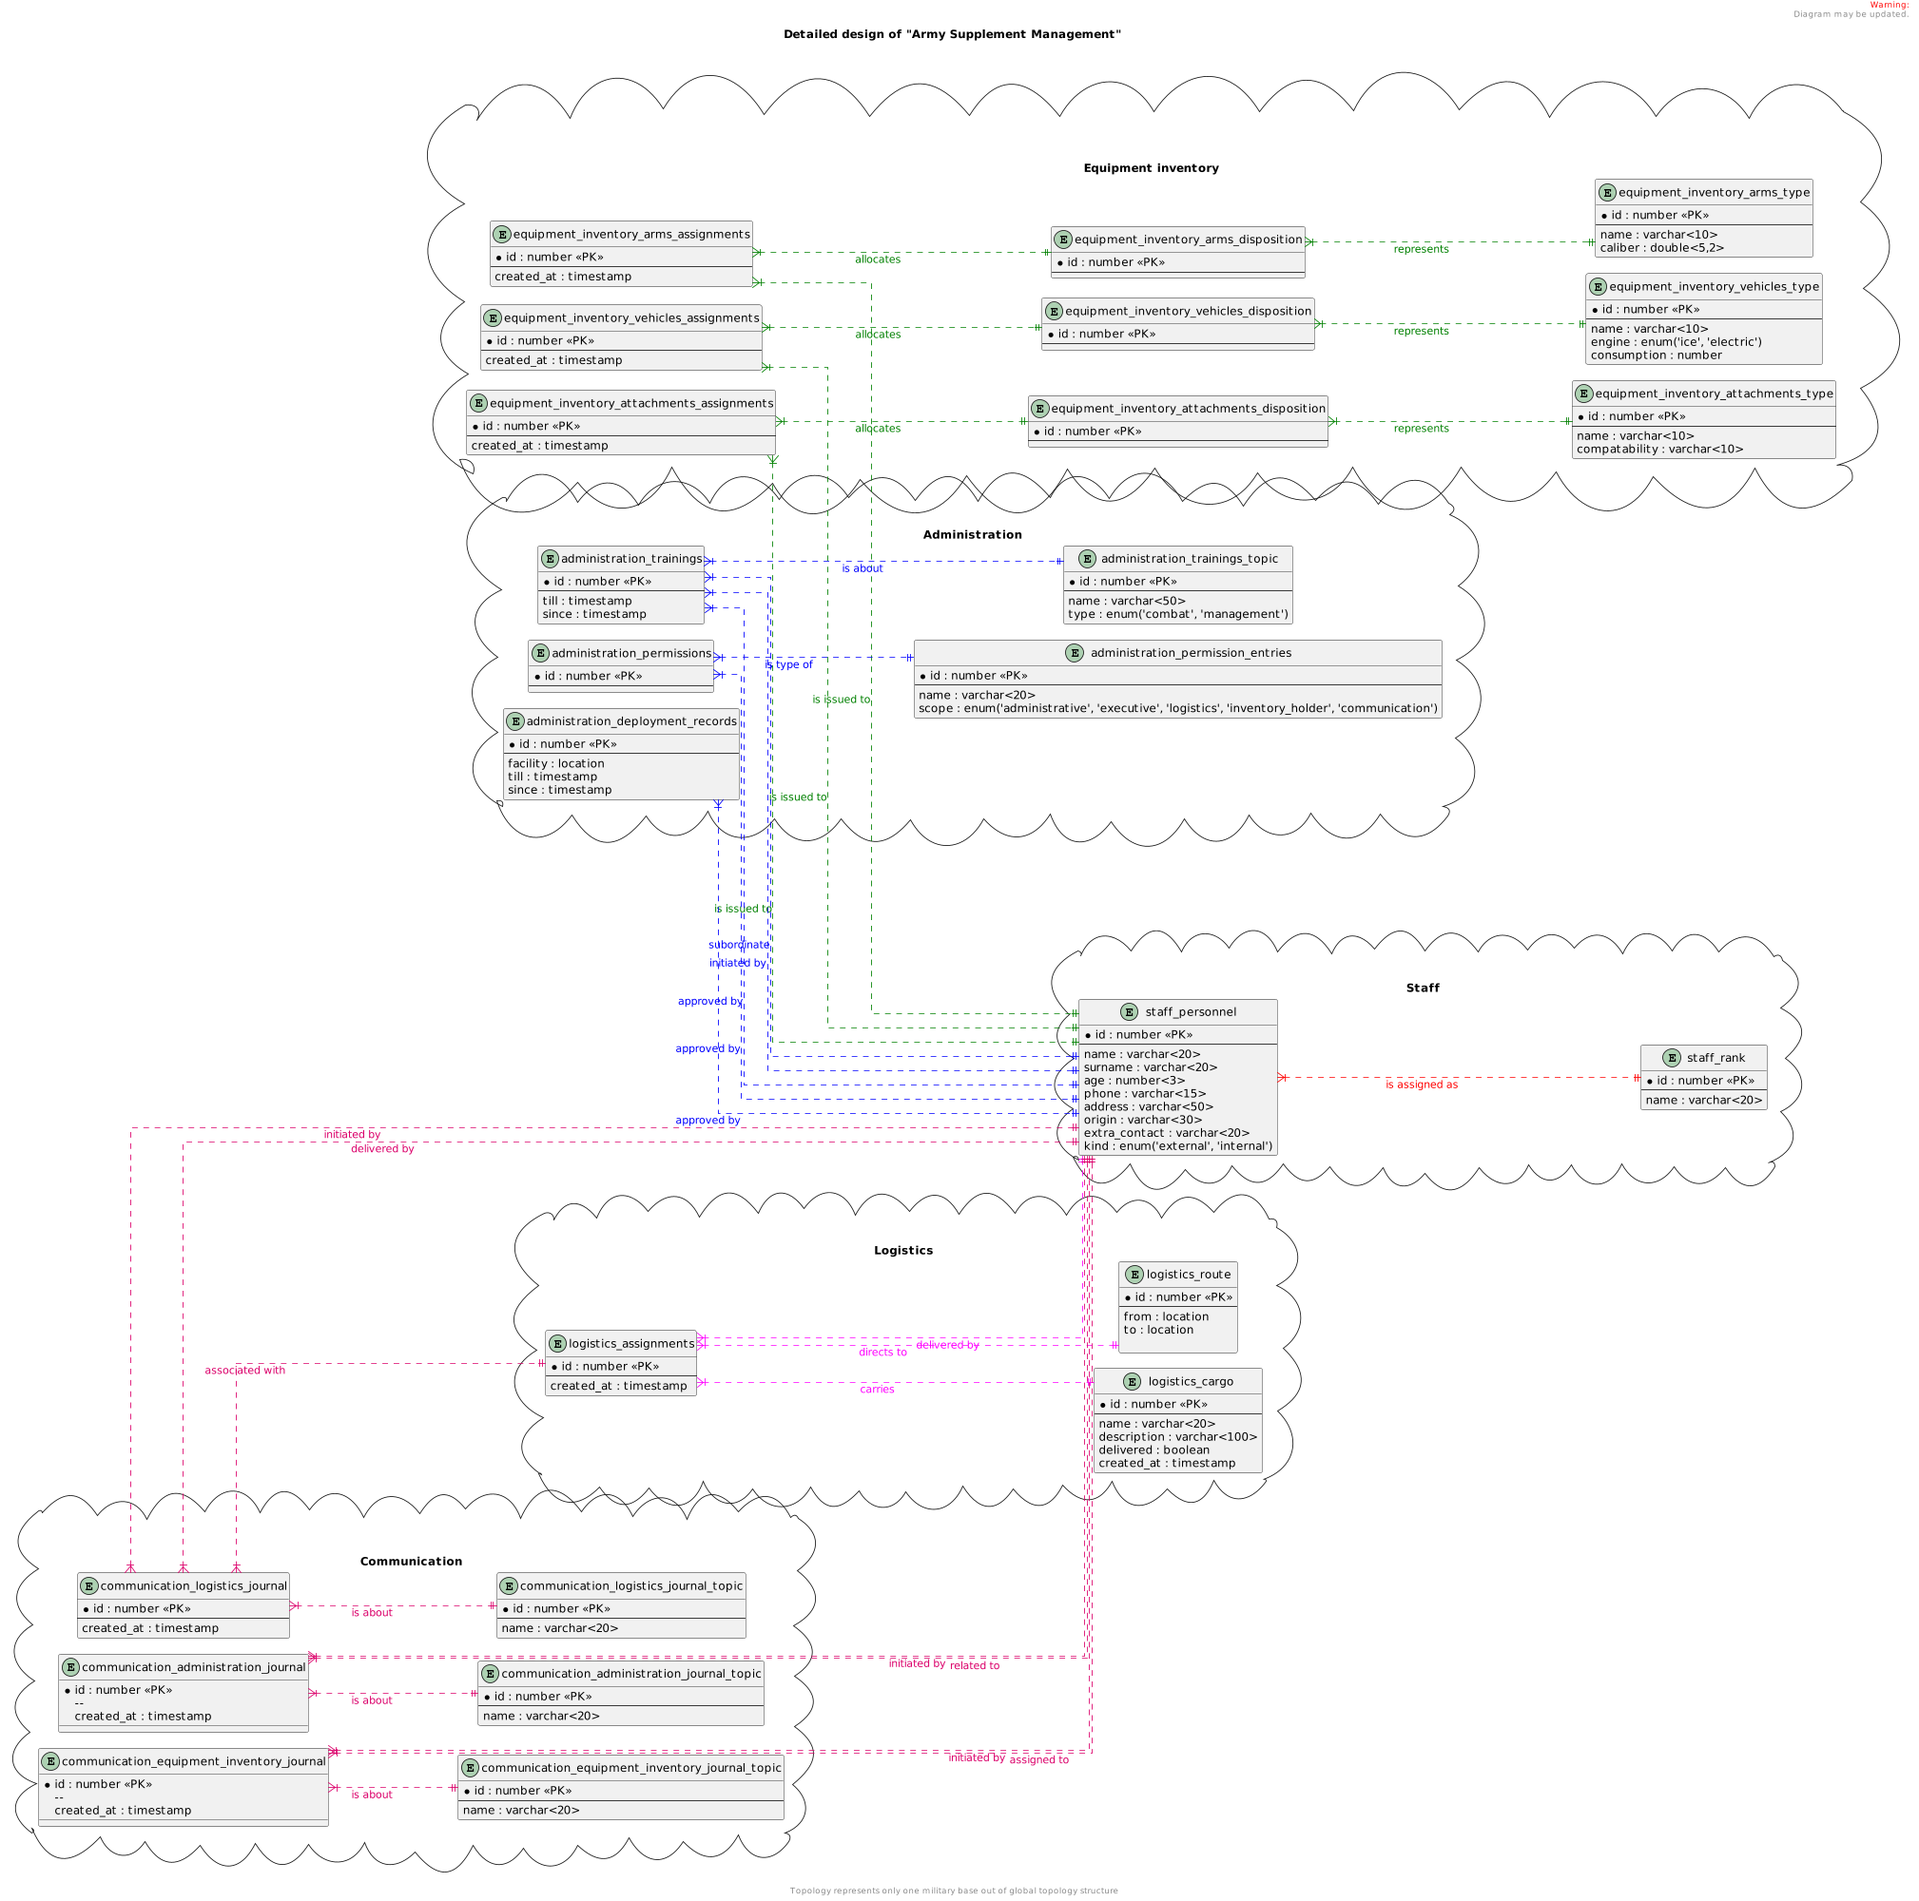
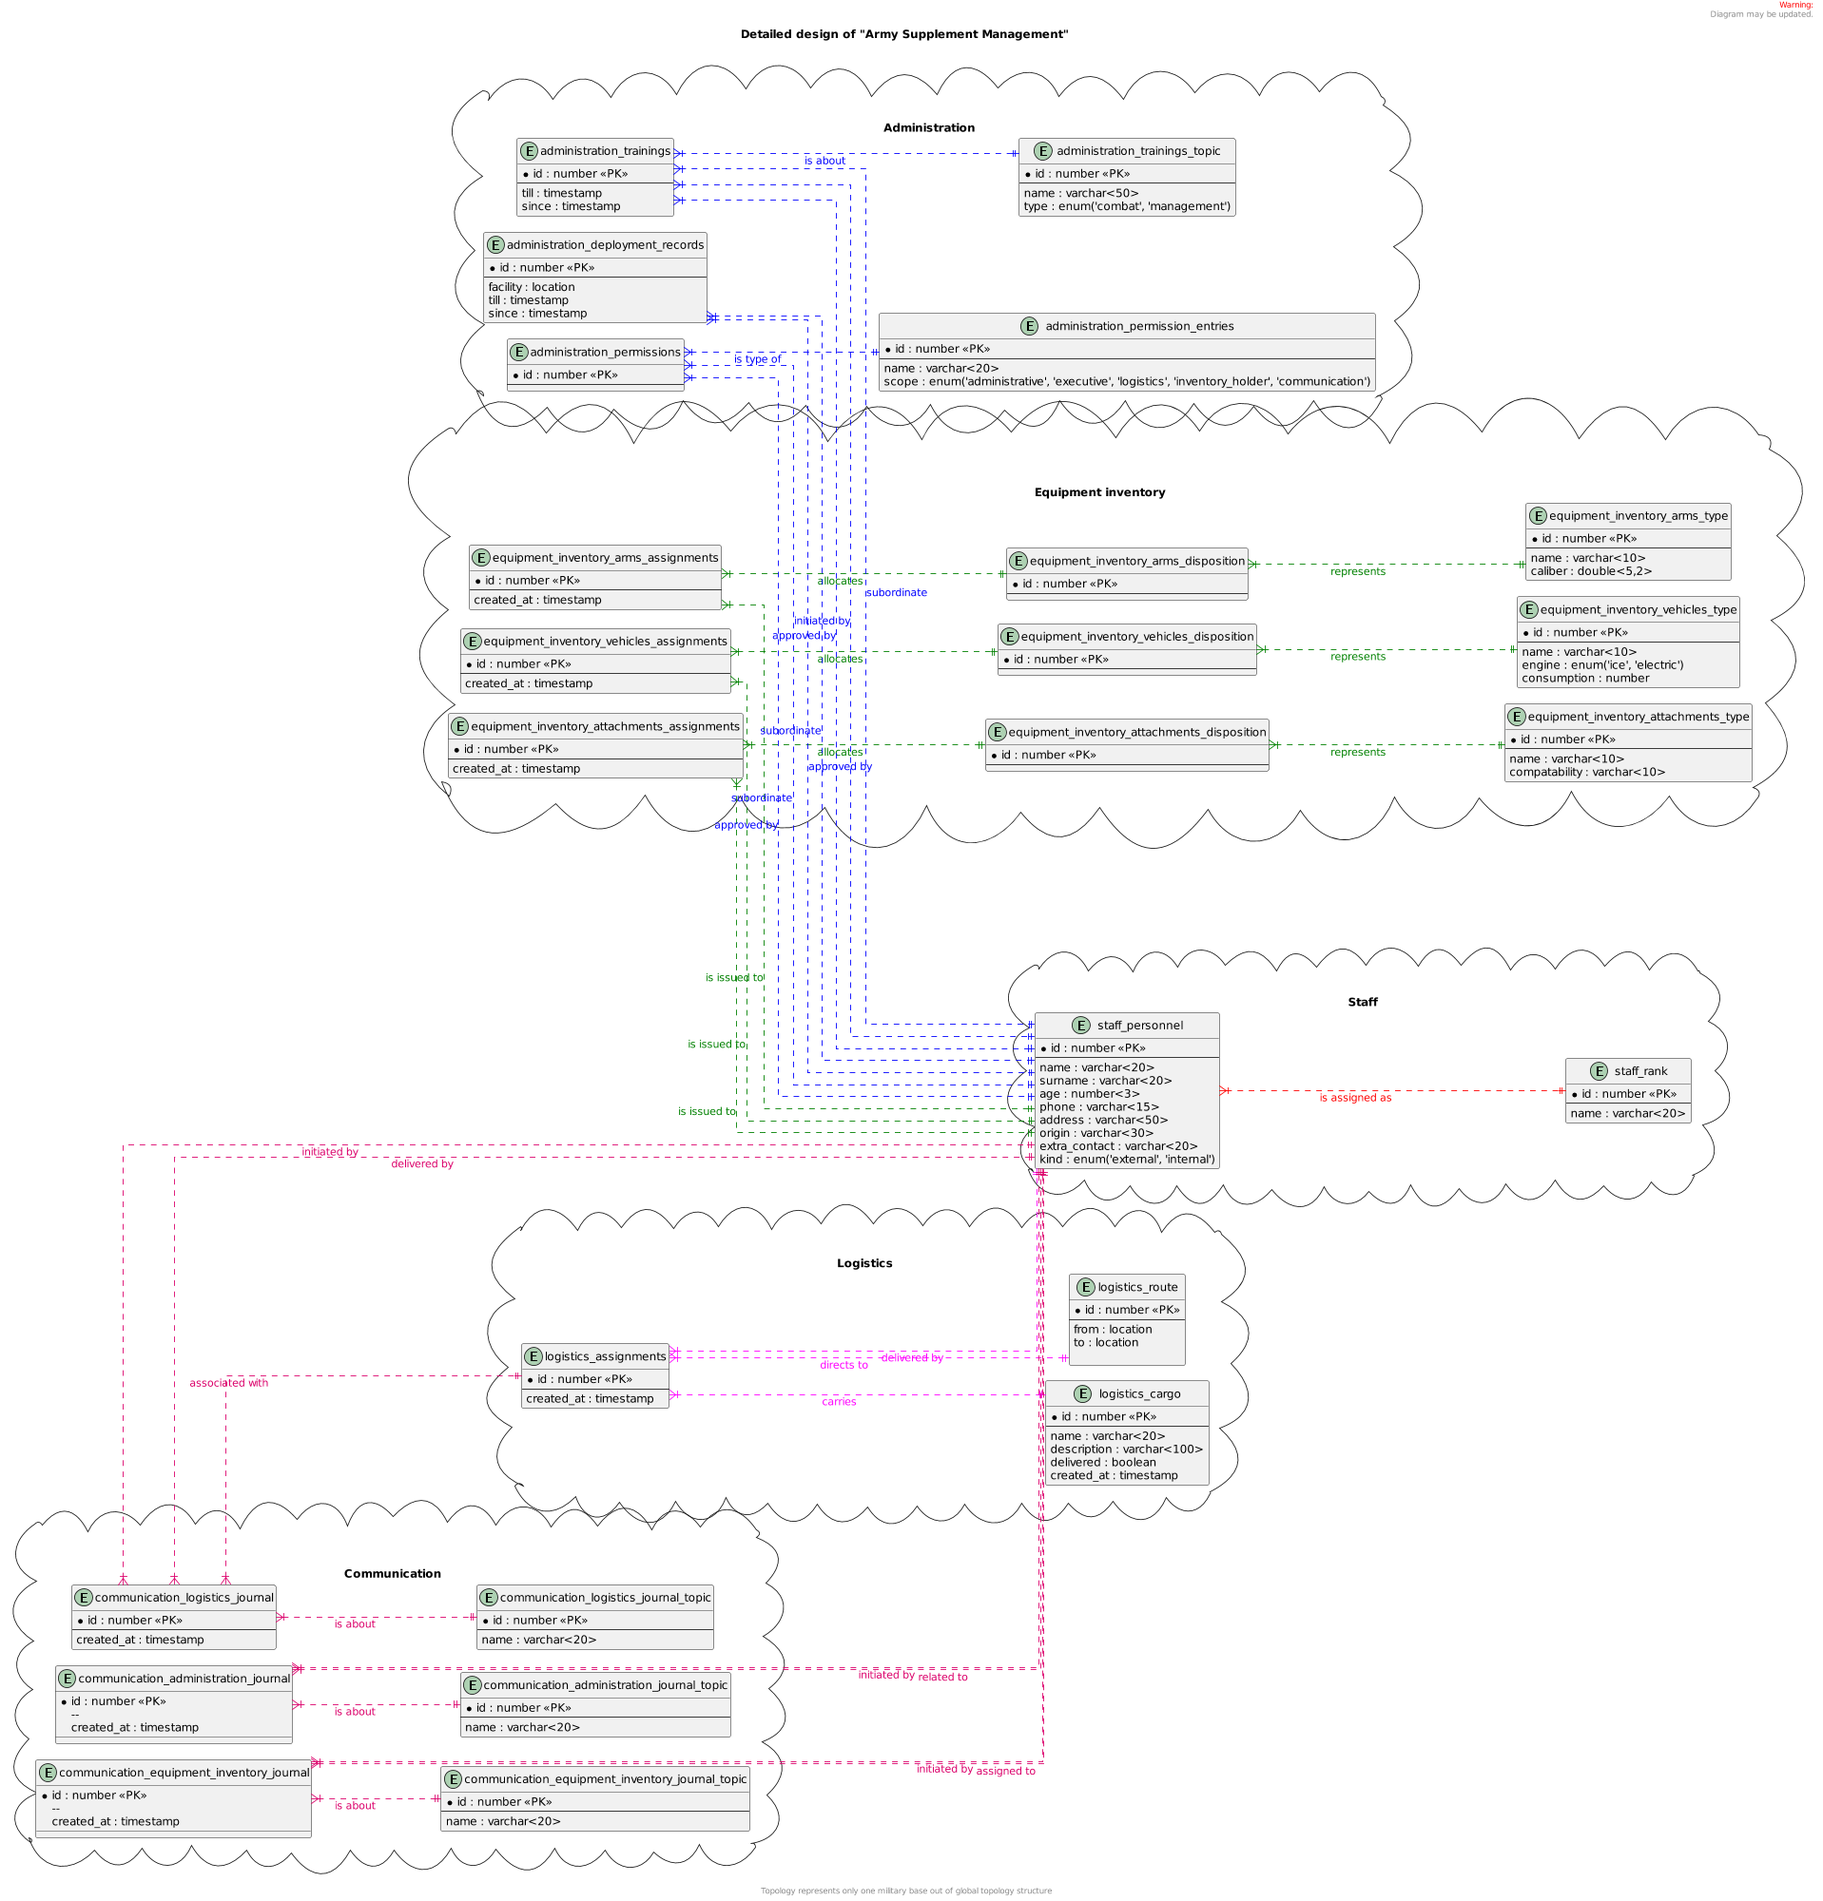
feature: added examples for migration (#9)

diff --git a/docs/examples/detailed-design-sql.md b/docs/examples/detailed-design-sql.md
@@ -92,9 +92,10 @@ entity "logistics_assignments" {
 entity "logistics_route" {
     *id : number <<PK>>
     --
-    from : location
-    to : location
-
+    from_longitude : double
+    from_latitude : double
+    to_longitude : double
+    to_latitude : double
 }
 
 entity "logistics_cargo" {
@@ -203,8 +204,10 @@ entity "administration_trainings_topic" {
 entity "administration_deployment_records" {
     *id : number <<PK>>
     *approved_by : number <<FK>> # staff_personnel(id)
+    *subordinate : number <<FK>> # staff_personnel(id)
     --
-    facility : location
+    facility_longitude : double
+    facility_latitude : double
     till : timestamp
     since : timestamp
 }
@@ -212,6 +215,7 @@ entity "administration_deployment_records" {
 entity "administration_permissions" {
     *id : number <<PK>>
     *approved_by : number <<FK>> # staff_personnel(id)
+    *subordinate : number <<FK>> # staff_personnel(id)
     *entry : number <<FK>> # administration_permission_entries(id)
     --
 }

diff --git a/docs/examples/detailed-design.md b/docs/examples/detailed-design.md
@@ -153,8 +153,10 @@ administration_trainings }|...|| staff_personnel #blue : <color:blue>subordinate
 administration_trainings }|...|| administration_trainings_topic #blue : <color:blue>is about
 
 administration_deployment_records }|...|| staff_personnel #blue : <color:blue>approved by
+administration_deployment_records }|...|| staff_personnel #blue : <color:blue>subordinate
 
 administration_permissions }|...|| staff_personnel #blue : <color:blue>approved by
+administration_permissions }|...|| staff_personnel #blue : <color:blue>subordinate
 administration_permissions }|...|| administration_permission_entries #blue : <color:blue>is type of
 }
 }

diff --git a/README.md b/README.md
@@ -107,3 +107,7 @@ In order to gain logical isolation of data all the top-tier structures are separ
 * _administration_deployment_records_ **one or many to exactly one** _staff_personnel_
 * _administration_permissions_ **one or many to exactly one** _staff_personnel_
 * _administration_permissions_ **one or many to exactly one** _administration_permission_entries_
+
+## Normalization
+
+Normalization was not required, because all of the entities have already been transformed to 3NF(normalization form).
